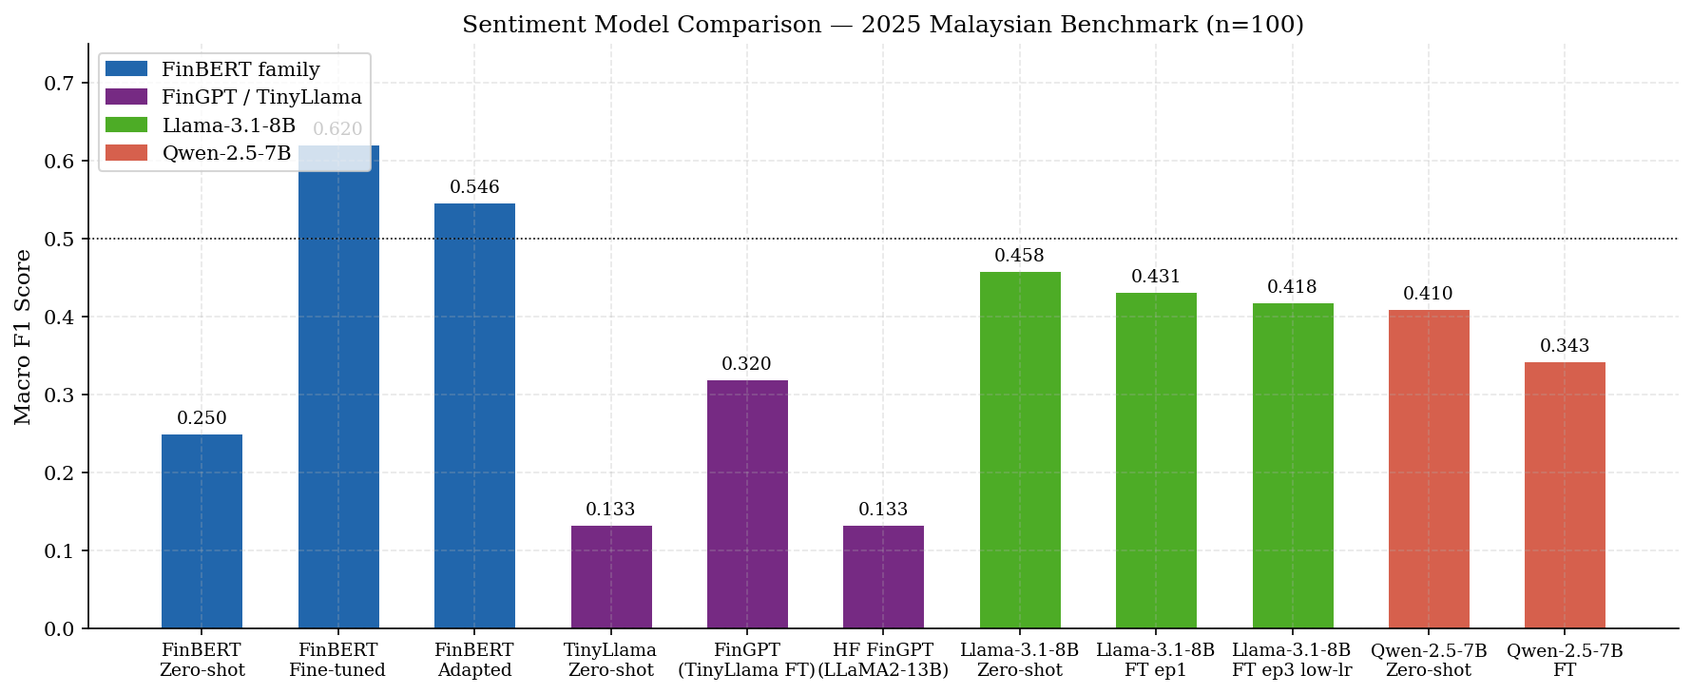
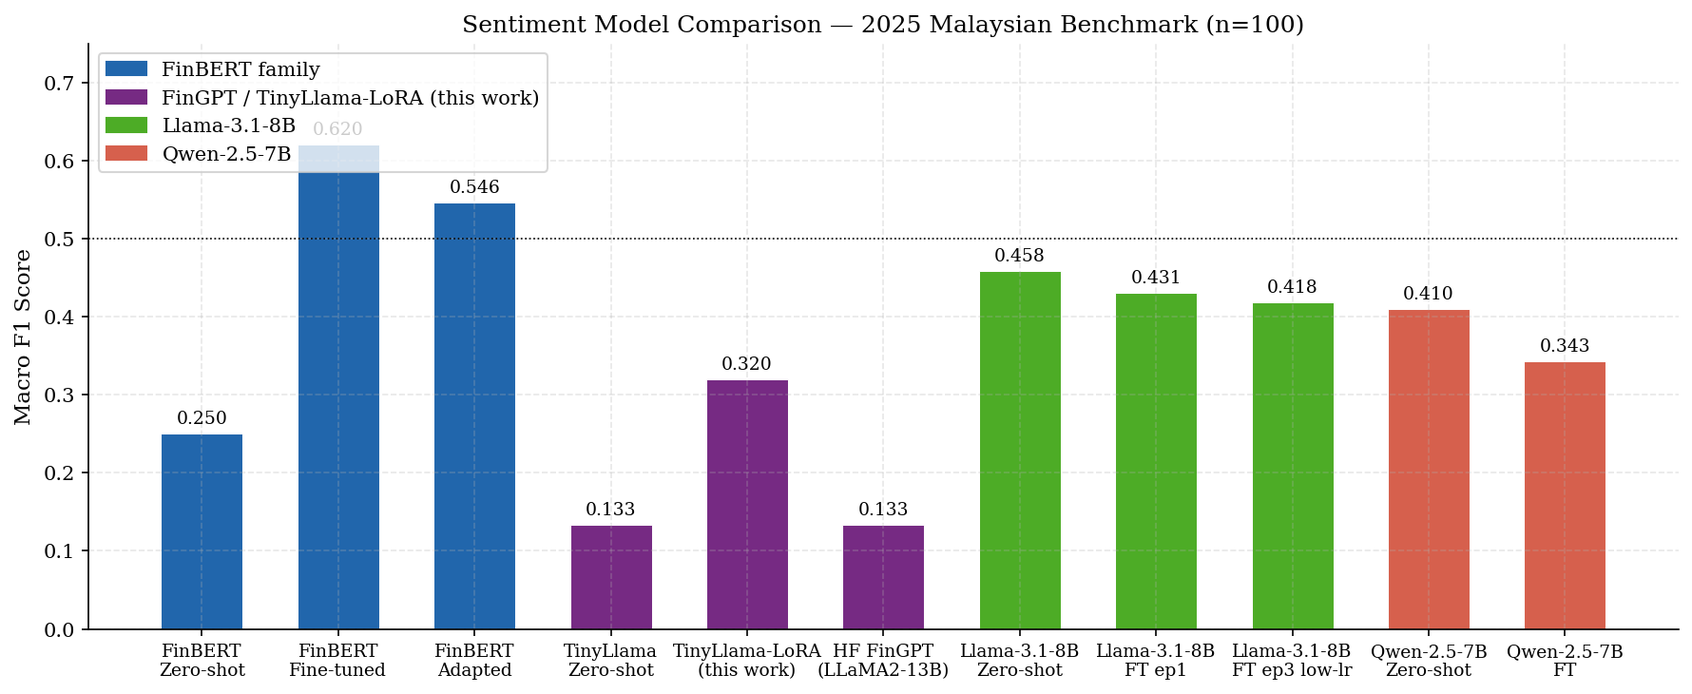
Update thesis text and add figures

Changed region(s): [[0.0927, 0.9041, 0.9579, 0.9945], [0.0927, 0.1205, 0.3399, 0.1507], [0.0927, 0.211, 0.2472, 0.2712]]

diff --git a/docs/latex/main.tex b/docs/latex/main.tex
@@ -170,7 +170,7 @@ The primary aim of this research is to develop a robust framework that integrate
 
 \begin{enumerate}
     \item \textbf{Benchmark sentiment classification performance of discriminative versus generative models on Malaysian financial news.}  
-    This objective involves fine-tuning FinBERT, a discriminative encoder-based model, and benchmarking a family of generative instruction-tuned models using a curated dataset of Malaysian financial news. The generative side begins with a TinyLlama-based FinGPT baseline and is extended to larger Qwen and Llama instruct backbones in order to determine which architectural paradigm and backbone scale more effectively capture local linguistic nuances, financial jargon, and the pronounced neutral-class imbalance characteristic of Malaysian corporate reporting.
+    This objective involves fine-tuning FinBERT, a discriminative encoder-based model, and benchmarking a family of generative instruction-tuned models using a curated dataset of Malaysian financial news. The generative side begins with a TinyLlama-1.1B model fine-tuned using the FinGPT instruction-tuning framework (TinyLlama-LoRA) and is extended to larger Qwen and Llama instruct backbones in order to determine which architectural paradigm and backbone scale more effectively capture local linguistic nuances, financial jargon, and the pronounced neutral-class imbalance characteristic of Malaysian corporate reporting.
 
     \item \textbf{Quantify the relationship between extracted sentiment signals and KLSE stock returns.}  
     This objective seeks to statistically analyse whether sentiment scores produced by the strongest benchmarked models are associated with realised price movement in Bursa Malaysia. The analysis first measures broad corpus correlations against the KLSE index and major stocks, and then tests whether company-specific news filtering yields stronger stock-level relationships.
@@ -301,9 +301,9 @@ A key advantage of generative LLMs over models such as FinBERT lies in their num
 Based on the reviewed literature, this thesis is motivated by the following research questions:
 
 \begin{itemize}
-    \item How do FinBERT and FinGPT differ in their sensitivity to numerical information in financial news?
-    \item What unique challenges does the KLSE market present for Large Language Models?
-    \item Why might instruction-tuned generative models outperform classification-based approaches for financial sentiment analysis?
+    \item Can fine-tuned FinBERT or generative LLM backbones accurately classify sentiment in Malaysian financial news, and which architectural paradigm performs better on a locally annotated benchmark?
+    \item Does company-filtered FinBERT sentiment correlate significantly with daily stock returns on Bursa Malaysia, and does corpus filtering materially affect the strength of this relationship?
+    \item Does incorporating FinBERT-derived sentiment features into LSTM and GRU sequence models improve directional forecasting accuracy over price-only baselines for KLSE large-cap stocks?
 \end{itemize}
 
 
@@ -350,6 +350,12 @@ Standard RNNs suffer from the \emph{vanishing gradient} problem, which limits th
 
 Empirical studies consistently demonstrate the superiority of LSTM networks over traditional machine learning models such as Support Vector Machines (SVM) and Multilayer Perceptrons (MLP) for financial time-series forecasting. For example, Halder (2024) reported that LSTM models achieved a 20.23\% improvement in Mean Absolute Percentage Error (MAPE) compared to MLP models when forecasting NASDAQ-100 indices. Similarly, in the Malaysian context, Sidek \textit{et al.}\ (2023) found that LSTM-based architectures outperformed Decision Tree models in minimizing Root Mean Square Error (RMSE) for Bursa Malaysia constituent stocks.
 
+\subsubsection{Gated Recurrent Units (GRU)}
+
+Gated Recurrent Units, introduced by \citet{chung2014empirical}, offer a simplified alternative to the LSTM gating mechanism. Rather than maintaining separate input, forget, and output gates alongside a distinct memory cell, the GRU consolidates this logic into two gates: a \emph{reset gate}, which controls how much of the previous hidden state is retained when computing the candidate state, and an \emph{update gate}, which interpolates between the previous hidden state and the candidate. This simpler parameterisation reduces the number of trainable weights per layer, which is advantageous in data-constrained settings where the risk of overfitting is high.
+
+Empirical comparisons between LSTM and GRU on financial time-series tasks report mixed conclusions. \citet{siami2019performance} found GRU to be competitive with LSTM on standard stock prediction benchmarks while converging faster, suggesting it is preferable when training data is limited. In the present thesis, both architectures are evaluated in parallel under identical conditions, allowing a direct assessment of whether the additional capacity of the LSTM translates into better directional forecasting for Bursa Malaysia stocks.
+
 \subsubsection{The Hybrid Approach: FinBERT--LSTM}
 
 A key limitation of applying LSTM models exclusively to price-based data (e.g.\ OHLCV) is the exclusion of qualitative market drivers. To overcome this limitation, recent studies have proposed hybrid architectures that integrate structured numerical features with unstructured sentiment information extracted using Natural Language Processing (NLP) models. This approach is theoretically motivated by the observation that while historical prices capture underlying trends, news sentiment reflects market shocks, investor psychology, and exogenous events that often trigger trend reversals.
@@ -369,6 +375,10 @@ The reviewed literature reveals an increasingly sophisticated financial forecast
 The majority of advanced sentiment analysis and financial forecasting research focuses on developed markets, most notably the United States (NASDAQ, NYSE) and China. In contrast, rigorous applications of Transformer-based LLMs to the Bursa Malaysia (KLSE) remain scarce. While recent local studies have explored machine learning approaches for KLSE prediction, they often rely on legacy lexicon-based sentiment techniques (e.g.\ VADER, Loughran--McDonald) or conventional classifiers such as Na\"ive Bayes and SVM. 
 
 Although Tan \textit{et al.}\ (2025) introduced localised sentiment data sourced from platforms such as \emph{KLSE Screener}, their analysis focused primarily on ensemble tree-based models (e.g.\ XGBoost) rather than evaluating the semantic reasoning capabilities of modern Generative AI models. This thesis directly addresses this gap by applying advanced FinBERT and FinGPT architectures to the Malaysian market, with particular emphasis on their ability to capture local political and economic narratives that are often absent from global datasets.
+
+\subsubsection{The Signal Dilution Problem}
+
+A related but distinct methodological gap concerns the construction of the news corpus itself. Prior work that aggregates all available financial news into a single daily sentiment index implicitly assumes that the aggregate signal is informative about any given stock. In practice, a broad corpus pooling macroeconomic, political, and multi-sector news introduces substantial noise relative to the target return series---a phenomenon referred to in the event-study literature as \emph{signal dilution}. \citet{tetlock2007giving} demonstrated that market-wide media pessimism predicts downward pressure on aggregate indices, but firm-level predictability is substantially weaker when the underlying text is not filtered to the target company. More recent work on firm-specific sentiment confirms that relevance filtering---restricting the corpus to articles that explicitly mention the firm of interest---is a precondition for observing significant news--return associations at the stock level. This thesis directly tests the signal dilution hypothesis by contrasting broad-corpus aggregation against company-filtered sentiment for the same four Bursa Malaysia stocks, providing a clean empirical quantification of the filtering effect in the Malaysian market.
 
 \subsubsection{The Methodological Gap: Discriminative vs.\ Generative Models for Forecasting}
 
@@ -409,7 +419,7 @@ In contrast, the stock market data used in Experiments~2 and~3---comprising Open
     \item \textbf{Sliding Window Approach:}  
     To convert dynamic financial data into a supervised learning format suitable for Long Short-Term Memory (LSTM) networks, this study employs a sliding (rolling) window methodology. The resulting input data is structured as a three-dimensional tensor of shape $(\text{Samples}, \text{Time Steps}, \text{Features})$.
     
-    For a window size $w$ (e.g.\ $w=30$ trading days), the input vector at time~$t$ is defined as a sequence:
+    For a window size $w$ (e.g.\ $w=10$ trading days, as used in Experiment~3), the input vector at time~$t$ is defined as a sequence:
     \[
         \mathbf{X}_t = \{ \mathbf{x}_{t-w}, \mathbf{x}_{t-w+1}, \dots, \mathbf{x}_{t} \}.
     \]
@@ -546,6 +556,12 @@ For the downstream task of predicting KLSE stock price movements in Experiments~
     \]
 \end{itemize}
 
+\paragraph{Granger Causality Analysis}
+
+In addition to contemporaneous correlation metrics, Experiment~2 employs Granger causality tests to characterise the lead--lag relationship between sentiment and returns. A variable $X$ is said to \emph{Granger-cause} $Y$ if past values of $X$ contain statistically significant information about future values of $Y$ beyond what past values of $Y$ alone provide. Formally, this is tested by comparing a restricted autoregressive model of $Y$ against an unrestricted model that includes lagged values of $X$; the improvement in fit is evaluated via an $F$-test.
+
+Granger causality is widely used in financial econometrics to distinguish genuine predictive lead--lag channels from spurious contemporaneous correlation. \citet{bollen2011twitter} applied Granger causality to demonstrate that Twitter mood scores preceded DJIA movements, establishing the framework as standard practice in news-driven market studies. In the present thesis, Granger tests are applied at lag~1 in both directions (sentiment$\to$returns and returns$\to$sentiment) for each company-filtered stock, allowing the heterogeneous causal structures across stocks to be characterised and compared.
+
 \paragraph{Validation Strategy: Chronological Hold-Out Split}
 
 To respect the temporal structure of financial time-series data, this study replaces random shuffling and conventional $k$-fold cross-validation with a strictly chronological hold-out strategy. Models are trained on the earliest segment of the series, tuned on the immediately subsequent validation block, and evaluated on the final unseen test block. In Experiment~3, this corresponds to a 70/15/15 train/validation/test split, with feature scaling fit only on the training partition. This design prevents look-ahead bias while preserving a realistic out-of-sample forecasting setting.
@@ -553,7 +569,7 @@ To respect the temporal structure of financial time-series data, this study repl
 
 \chapter{Sentiment Model Benchmarking}
 
-\chapterabstract{This chapter presents a comparative empirical study of FinBERT and FinGPT-style generative models to evaluate their efficacy in extracting financial sentiment within the Malaysian market context. In addition to the original TinyLlama-based FinGPT baseline, the benchmark is extended to larger open instruct models from the Qwen and Llama families in order to separate the effects of model architecture from backbone capacity. The chapter compares zero-shot prompting, supervised fine-tuning on a Malaysian financial headline corpus, and pseudo-label adaptation on recent unlabeled news. The findings identify FinBERT as the strongest supervised sentiment model for the subsequent forecasting experiments, while also showing that larger generative backbones substantially outperform the original TinyLlama baseline in zero-shot evaluation, whereas public-source FinGPT checkpoints and LoRA fine-tuning of the larger decoders do not surpass either the best zero-shot Llama baseline or FinBERT.}
+\chapterabstract{This chapter presents a comparative empirical study of FinBERT and FinGPT-style generative models to evaluate their efficacy in extracting financial sentiment within the Malaysian market context. In addition to TinyLlama-LoRA---a TinyLlama-1.1B model fine-tuned by the author using the FinGPT instruction-tuning framework---the benchmark is extended to larger open instruct models from the Qwen and Llama families in order to separate the effects of model architecture from backbone capacity. The chapter compares zero-shot prompting, supervised fine-tuning on a Malaysian financial headline corpus, and pseudo-label adaptation on recent unlabeled news. The findings identify FinBERT as the strongest supervised sentiment model for the subsequent forecasting experiments, while also showing that larger generative backbones substantially outperform the original TinyLlama baseline in zero-shot evaluation, whereas public-source FinGPT checkpoints and LoRA fine-tuning of the larger decoders do not surpass either the best zero-shot Llama baseline or FinBERT.}
 
 \section{Introduction}
 This chapter evaluates how well domain-specific and open generative language models transfer to Malaysian financial news sentiment classification. The main comparison is between a discriminative encoder-only model, FinBERT, and a set of decoder-only FinGPT-style models that predict sentiment through prompted generation. The motivation is twofold: first, to identify the strongest sentiment model for downstream forecasting; second, to test whether the additional flexibility of generative models yields a practical advantage in an emerging market setting characterised by local political language, corporate reporting conventions, and a strong neutral-class imbalance.
@@ -576,13 +592,15 @@ Three data resources were used in the sentiment benchmark.
 
 In addition, a recent Malaysian news corpus covering 2023--2025, with the manually labeled 2025 items excluded, was used for pseudo-label adaptation experiments. This excluded-human corpus contained 92,294 rows after preprocessing.
 
+For the generative fine-tuning experiments, TinyLlama-1.1B was selected as the base backbone and adapted using the FinGPT instruction-tuning methodology: the 60k headline corpus was reformatted into instruction--response pairs and the model was fine-tuned with LoRA. This adapted model---referred to throughout as \textbf{TinyLlama-LoRA} to distinguish it from both the unmodified TinyLlama zero-shot baseline and the separately downloaded public FinGPT checkpoint---represents the author's own training run rather than a publicly released model.
+
 \section{Aim of Study and Analysis Approach}
 The benchmark was structured in three stages.
 
 \begin{enumerate}
     \item \textbf{Zero-shot evaluation.} FinBERT and several open instruct LLM backbones were evaluated directly on the 2025 human-labeled benchmark without task-specific gradient updates.
     \item \textbf{Supervised fine-tuning.} FinBERT and selected generative backbones were adapted on the 60k labeled headline corpus using discriminative fine-tuning for FinBERT and LoRA-based instruction tuning for generative models.
-    \item \textbf{Pseudo-label adaptation.} The best 60k-trained FinBERT and TinyLlama-based FinGPT models were used to pseudo-label the 2023--2025 excluded-human corpus, after which each model was adapted on its own pseudo-labeled recent data and reevaluated on the 2025 development benchmark.
+    \item \textbf{Pseudo-label adaptation.} The best 60k-trained FinBERT and TinyLlama-LoRA models were used to pseudo-label the 2023--2025 excluded-human corpus, after which each model was adapted on its own pseudo-labeled recent data and reevaluated on the 2025 development benchmark.
 \end{enumerate}
 
 Macro F1-score was treated as the primary metric because the Malaysian news benchmark is class-imbalanced and raw accuracy can be inflated by overpredicting the neutral class. Accuracy, macro precision, macro recall, weighted precision, weighted recall, and weighted F1-score were also recorded for diagnostic analysis.
@@ -605,7 +623,14 @@ Macro F1-score was treated as the primary metric because the Malaysian news benc
 \label{fig:ch3-class-dist-cm}
 \end{figure}
 
-To keep the chapter aligned with the central thesis question of \emph{FinBERT versus FinGPT}, the main results are organised into two focused comparisons. The first comparison follows the FinBERT family from zero-shot baseline to supervised fine-tuning and pseudo-label adaptation. The second comparison follows the most relevant generative baselines: the official public FinGPT checkpoint, the TinyLlama-based FinGPT run2 model, and the strongest modern open LLM candidate, Meta-Llama-3.1-8B-Instruct. Broader exploratory runs, including Qwen-7B, Qwen-3B, Llama-3.2-1B, Llama-3.2-3B, TinyLlama zero-shot, and the public FinGPT Llama2-13B checkpoint, are treated as supplementary evidence rather than the core narrative.
+\begin{figure}[htbp]
+\centering
+\includegraphics[width=\textwidth]{ch3_per_class_recall.png}
+\caption{Per-class recall heatmap across key evaluated models on the 2025 benchmark. The neutral class (centre column) shows the lowest recall across all models, confirming that class ambiguity in financial language is a structural challenge rather than a model-specific failure. FinBERT fine-tuned achieves the strongest balance across all three classes.}
+\label{fig:ch3-per-class-recall}
+\end{figure}
+
+To keep the chapter aligned with the central thesis question of \emph{FinBERT versus FinGPT}, the main results are organised into two focused comparisons. The first comparison follows the FinBERT family from zero-shot baseline to supervised fine-tuning and pseudo-label adaptation. The second comparison follows the most relevant generative baselines: the official public FinGPT checkpoint, the TinyLlama-LoRA model (the author's own fine-tuned TinyLlama-1.1B), and the strongest modern open LLM candidate, Meta-Llama-3.1-8B-Instruct. Broader exploratory runs, including Qwen-7B, Qwen-3B, Llama-3.2-1B, Llama-3.2-3B, TinyLlama zero-shot, and the public FinGPT Llama2-13B checkpoint, are treated as supplementary evidence rather than the core narrative.
 
 \begin{table}[htbp]
 \centering
@@ -645,7 +670,7 @@ FinBERT run2 & Held-out 2026 set ($n=200$) & 0.69 & 0.598 \\
 \textbf{Generative Stage} & \textbf{Model} & \textbf{Accuracy} & \textbf{Macro F1} \\
 \hline
 Official public FinGPT & FinGPT MT Llama2-7B (HF) & 0.27 & 0.175 \\
-Supervised FinGPT run2 & TinyLlama-based FinGPT run2 & 0.35 & 0.328 \\
+TinyLlama-LoRA (this work) & TinyLlama-1.1B + LoRA (60k fin. headlines) & 0.35 & 0.328 \\
 Best open zero-shot LLM & Meta-Llama-3.1-8B-Instruct & 0.47 & 0.458 \\
 Llama-8B + LoRA (1ep, lr=1e-5) & Meta-Llama-3.1-8B-Instruct + LoRA & 0.44 & 0.431 \\
 Llama-8B + LoRA (3ep, lr=2e-6) & Meta-Llama-3.1-8B-Instruct + LoRA & 0.42 & 0.418 \\
@@ -657,12 +682,12 @@ Llama-8B + LoRA (3ep, lr=2e-6) & Meta-Llama-3.1-8B-Instruct + LoRA & 0.42 & 0.41
 
 Table~\ref{tab:finbert-family-2025} provides the clearest result in the chapter. The supervised FinBERT run2 model dramatically outperformed both the generic zero-shot FinBERT baseline and the adapted FinBERT variant, reaching 0.69 accuracy and macro F1 0.620 on the 2025 benchmark. The pseudo-label adaptation stage remained informative despite being unsuccessful, because it showed that additional recent data did not automatically improve transfer when the labels were noisy. Table~\ref{tab:finbert-holdout-2026} confirms that this selected 60k-supervised FinBERT model retained 0.69 accuracy and achieved macro F1 0.598 on the held-out 2026 benchmark.
 
-Table~\ref{tab:fingpt-family-2025} tells a different story for the generative side. The official public FinGPT checkpoint transferred poorly to the Malaysian benchmark, with macro F1 only 0.175. The TinyLlama-based FinGPT run2 model improved on that baseline and reached macro F1 0.328 after supervised adaptation, but it remained well below FinBERT. The strongest open generative baseline in the focused comparison was Meta-Llama-3.1-8B-Instruct at macro F1 0.458, yet even this stronger decoder model still trailed FinBERT by a wide margin. Moreover, LoRA fine-tuning of Llama-8B consistently degraded performance: the 1-epoch run at lr=1e-5 reduced macro F1 from 0.458 to 0.431, and a further run at 3 epochs with the lower learning rate of 2e-6 reduced it further to 0.418. Reducing the learning rate and increasing the number of epochs did not reverse the decline.
+Table~\ref{tab:fingpt-family-2025} tells a different story for the generative side. The official public FinGPT checkpoint transferred poorly to the Malaysian benchmark, with macro F1 only 0.175. The TinyLlama-LoRA model (the author's own fine-tuned TinyLlama-1.1B) improved on that baseline and reached macro F1 0.328 after supervised adaptation, but it remained well below FinBERT. The strongest open generative baseline in the focused comparison was Meta-Llama-3.1-8B-Instruct at macro F1 0.458, yet even this stronger decoder model still trailed FinBERT by a wide margin. Moreover, LoRA fine-tuning of Llama-8B consistently degraded performance: the 1-epoch run at lr=1e-5 reduced macro F1 from 0.458 to 0.431, and a further run at 3 epochs with the lower learning rate of 2e-6 reduced it further to 0.418. Reducing the learning rate and increasing the number of epochs did not reverse the decline.
 
 The broader exploratory sweep was still useful, but it is not central to the thesis narrative. Among those supplementary runs, Qwen2.5-7B-Instruct was the second-best zero-shot open LLM at macro F1 0.410, while both Qwen-7B LoRA runs remained below that baseline. The public FinGPT Llama2-13B sentiment adapter also collapsed to near-majority-class behaviour with macro F1 0.133. These additional runs reinforce the main conclusion rather than changing it: larger decoder models improve zero-shot performance, but generative LoRA tuning does not overtake FinBERT in this task.
 
 \section{Summary}
-This chapter establishes four focused findings. First, the supervised FinBERT run2 model is the strongest sentiment model in the current Malaysian benchmark and therefore the most appropriate core signal for downstream forecasting. Second, the official public FinGPT baseline is weak in this setting, and the TinyLlama-based FinGPT run2 model improves on it but still remains far below FinBERT. Third, Meta-Llama-3.1-8B is the strongest modern open generative baseline tested in the main comparison, but even it does not match FinBERT, and LoRA fine-tuning consistently degraded performance across all configurations tested (1 epoch at lr=1e-5: macro F1 0.431; 3 epochs at lr=2e-6: macro F1 0.418), confirming that the issue is structural rather than a hyperparameter sensitivity. Fourth, pseudo-label adaptation on recent unlabeled news does not improve performance in this study. The remainder of the thesis therefore treats the 60k-supervised FinBERT model as the primary sentiment extractor, while the generative models serve mainly as comparative evidence on the trade-off between architectural flexibility and classification reliability.
+This chapter establishes four focused findings. First, the supervised FinBERT run2 model is the strongest sentiment model in the current Malaysian benchmark and therefore the most appropriate core signal for downstream forecasting. Second, the official public FinGPT baseline is weak in this setting, and the TinyLlama-LoRA model (the author's own fine-tuned TinyLlama-1.1B) improves on it but still remains far below FinBERT. Third, Meta-Llama-3.1-8B is the strongest modern open generative baseline tested in the main comparison, but even it does not match FinBERT, and LoRA fine-tuning consistently degraded performance across all configurations tested (1 epoch at lr=1e-5: macro F1 0.431; 3 epochs at lr=2e-6: macro F1 0.418), confirming that the issue is structural rather than a hyperparameter sensitivity. Fourth, pseudo-label adaptation on recent unlabeled news does not improve performance in this study. The remainder of the thesis therefore treats the 60k-supervised FinBERT model as the primary sentiment extractor, while the generative models serve mainly as comparative evidence on the trade-off between architectural flexibility and classification reliability.
 
 
 
@@ -779,11 +804,29 @@ Filtered ($n$=710) & 1066.KL (RHB)    & $T$ & 0.066 & 0.081                 & 0.
 
 \begin{figure}[htbp]
 \centering
+\includegraphics[width=0.48\textwidth]{ch4_sentiment_vs_returns_1023_CIMB.png}
+\hfill
+\includegraphics[width=0.48\textwidth]{ch4_sentiment_vs_returns_1066_RHB.png}
+\caption{Time-series overlays for CIMB (left) and RHB (right). CIMB shows the strongest lag-$T$ correlation in the experiment ($r=0.342$, $p<10^{-20}$) and exhibits visible co-movement between sentiment and returns. RHB, by contrast, displays a weaker and noisier relationship consistent with its borderline correlation ($p=0.081$) and reverse Granger causality pattern.}
+\label{fig:ch4-scatter-cimb-rhb}
+\end{figure}
+
+\begin{figure}[htbp]
+\centering
 \includegraphics[width=0.48\textwidth]{ch4_lag_heatmap_1155_Maybank.png}
 \hfill
 \includegraphics[width=0.48\textwidth]{ch4_lag_heatmap_5347_Tenaga.png}
 \caption{Lag correlation heatmaps for Maybank (left) and Tenaga (right) showing Pearson $r$ at lags $T$, $T{+}1$, $T{+}2$. The strong same-day signal decays sharply to near-zero at $T{+}1$ for Maybank, while Tenaga retains a small positive correlation at $T{+}2$ (the only marginally significant forward-looking result in the experiment).}
 \label{fig:ch4-lag-heatmap}
+\end{figure}
+
+\begin{figure}[htbp]
+\centering
+\includegraphics[width=0.48\textwidth]{ch4_lag_heatmap_1023_CIMB.png}
+\hfill
+\includegraphics[width=0.48\textwidth]{ch4_lag_heatmap_1066_RHB.png}
+\caption{Lag correlation heatmaps for CIMB (left) and RHB (right). CIMB's lag profile mirrors Maybank---a strong lag-$T$ signal that collapses at $T{+}1$---consistent with rapid contemporaneous price incorporation. RHB shows negligible correlations at all lags, confirming that its sentiment--return relationship is driven by returns predicting sentiment rather than the reverse.}
+\label{fig:ch4-lag-heatmap-cimb-rhb}
 \end{figure}
 
 \subsection{Discussion}
@@ -995,14 +1038,14 @@ Taken together, the Experiment~3 results complement Experiment~2's correlation f
 
 \chapter{Conclusion and Future Work}
 
-\chapterabstract{This thesis investigated whether state-of-the-art financial language models can extract actionable sentiment signals from Malay-language financial news and whether those signals improve short-horizon stock return forecasting on Bursa Malaysia. Across three interconnected experiments, fine-tuned FinBERT consistently outperformed generative alternatives for sentiment classification, company-filtered sentiment scores showed statistically significant contemporaneous correlation with daily returns for three of four stocks, and hybrid LSTM/GRU models incorporating sentiment features achieved modest but above-chance directional accuracy---most notably for Maybank (63.2\,\%) and RHB (3--7 percentage-point lift from sentiment augmentation). The results are consistent with semi-strong market efficiency: sentiment news is rapidly incorporated into prices, leaving only a narrow window for predictive models to exploit. This chapter collects the principal findings, lists the thesis's original contributions, and proposes directions for future research.}
+\chapterabstract{This thesis investigated whether state-of-the-art financial language models can extract actionable sentiment signals from Malaysian financial news and whether those signals improve short-horizon stock return forecasting on Bursa Malaysia. Across three interconnected experiments, fine-tuned FinBERT consistently outperformed generative alternatives for sentiment classification, company-filtered sentiment scores showed statistically significant contemporaneous correlation with daily returns for three of four stocks, and hybrid LSTM/GRU models incorporating sentiment features achieved modest but above-chance directional accuracy---most notably for Maybank (63.2\,\%) and RHB (3--7 percentage-point lift from sentiment augmentation). The results are consistent with semi-strong market efficiency: sentiment news is rapidly incorporated into prices, leaving only a narrow window for predictive models to exploit. This chapter collects the principal findings, lists the thesis's original contributions, and proposes directions for future research.}
 
 \section{Summary}
 
 This thesis addressed three research questions about financial sentiment analysis and market prediction on Bursa Malaysia. The following paragraphs summarise the outcomes of each experimental phase and draw them together under a unifying interpretation.
 
 \paragraph{Experiment 1: Sentiment Model Benchmarking.}
-A 100-article Malaysian benchmark from 2025 was used as the primary development set for sentiment model selection, followed by a held-out 200-article benchmark from 2026 for final confirmation of the selected model. The main comparison focused on three FinBERT stages (zero-shot, supervised run2, pseudo-label adapted) and the most relevant generative baselines: the public FinGPT MT checkpoint, the TinyLlama-based FinGPT run2 model, Meta-Llama-3.1-8B-Instruct zero-shot, and two Llama-8B LoRA runs. Fine-tuned FinBERT achieved the highest macro F1 of 0.620 on the 2025 benchmark and retained macro F1 0.598 on the held-out 2026 set, confirming that a compact discriminative encoder, properly specialised to the financial domain, outperforms the tested generative alternatives on this task. The strongest open zero-shot LLM in the main comparison was Meta-Llama-3.1-8B-Instruct at macro F1 0.458, while the TinyLlama-based FinGPT run2 model reached 0.328 after supervised adaptation. Crucially, LoRA fine-tuning of Llama-8B \emph{degraded} performance (to F1=0.431 and 0.418 across the two runs), reinforcing the conclusion that generative flexibility did not translate into better supervised sentiment classification in this low-resource Malaysian setting. The neutral class remained the hardest to classify across all models (recall as low as 0.28), reflecting a genuine ambiguity in financial language rather than a simple implementation failure.
+A 100-article Malaysian benchmark from 2025 was used as the primary development set for sentiment model selection, followed by a held-out 200-article benchmark from 2026 for final confirmation of the selected model. The main comparison focused on three FinBERT stages (zero-shot, supervised run2, pseudo-label adapted) and the most relevant generative baselines: the public FinGPT MT checkpoint, the TinyLlama-LoRA model (the author's own fine-tuned TinyLlama-1.1B), Meta-Llama-3.1-8B-Instruct zero-shot, and two Llama-8B LoRA runs. Fine-tuned FinBERT achieved the highest macro F1 of 0.620 on the 2025 benchmark and retained macro F1 0.598 on the held-out 2026 set, confirming that a compact discriminative encoder, properly specialised to the financial domain, outperforms the tested generative alternatives on this task. The strongest open zero-shot LLM in the main comparison was Meta-Llama-3.1-8B-Instruct at macro F1 0.458, while the TinyLlama-LoRA model (the author's own fine-tuned TinyLlama-1.1B) reached 0.328 after supervised adaptation. Crucially, LoRA fine-tuning of Llama-8B \emph{degraded} performance (to F1=0.431 and 0.418 across the two runs), reinforcing the conclusion that generative flexibility did not translate into better supervised sentiment classification in this low-resource Malaysian setting. The neutral class remained the hardest to classify across all models (recall as low as 0.28), reflecting a genuine ambiguity in financial language rather than a simple implementation failure.
 
 \paragraph{Experiment 2: Sentiment--Return Correlation.}
 Daily sentiment scores generated by fine-tuned FinBERT were correlated with daily stock returns for four large-cap Bursa Malaysia companies (Maybank, CIMB, Tenaga, RHB). A broad corpus containing all financial news ($\sim$115 articles per day on average) produced null Pearson and Spearman correlations for all four stocks, supporting the \emph{signal dilution hypothesis}: generic market news is too noisy to carry firm-specific predictive content. Filtering the corpus to articles that explicitly mention each company revealed a striking reversal: Maybank ($r=0.320$, $p<10^{-18}$), CIMB ($r=0.342$, $p<10^{-20}$), and Tenaga ($r=0.337$, $p<10^{-19}$) all showed highly significant positive correlations, while RHB remained borderline ($p=0.081$). Granger causality tests revealed heterogeneous dynamics: Tenaga exhibited unidirectional sentiment-to-returns causality at lag 1 ($p=0.014$), suggesting a short-lived predictive channel; CIMB showed bidirectional feedback; Maybank displayed only contemporaneous alignment with no lagged predictability; and RHB showed reverse causality (returns Granger-caused sentiment scores). These patterns are broadly consistent with semi-strong-form efficient market hypothesis (EMH): for most stocks, sentiment news is absorbed contemporaneously, leaving residual lagged structure only in specific cases where news processing is slower or investor attention is lower.
@@ -1013,7 +1056,7 @@ LSTM and GRU sequence models were trained to predict next-day log returns for al
 Price-only LSTM and GRU models outperformed persistence most clearly for Maybank, where both architectures achieved positive $R^2$ and directional accuracy around 61--63\,\%. CIMB showed only a marginally positive $R^2$ for the price-only GRU, while RHB remained slightly better than persistence on RMSE but negative on $R^2$ throughout. Tenaga was the weakest case: all models remained below persistence and directional accuracy stayed close to chance. Sentiment augmentation produced the clearest benefit for RHB, where GRU directional accuracy rose from 52.6\,\% to 60.0\,\% (+7.4 pp) and LSTM rose from 58.9\,\% to 61.1\,\% (+2.1 pp). For Maybank, sentiment slightly improved GRU regression performance (RMSE 0.00662$\to$0.00659; $R^2$ 0.057$\to$0.067) but did not improve directional accuracy. For CIMB, sentiment produced a small directional improvement only for LSTM (0.490$\to$0.551), and for Tenaga it produced no consistent gain. Overall, the models confirm that sentiment features can add modest, stock-specific directional information, but the gains are limited and do not translate into uniformly stronger return forecasting.
 
 \paragraph{Unified Interpretation.}
-The three experiments converge on a coherent picture. Financial language models can extract meaningful sentiment signals from Malay-language news, but only when the corpus is sufficiently focused on the target firm. Sentiment-return relationships are contemporaneous for most stocks, limiting the practical forecasting horizon. Where lagged predictability exists (Tenaga, RHB), it is weak enough that sequence models show only modest directional improvements rather than large magnitude gains. The appropriate theoretical lens is semi-strong EMH: public information---including news sentiment---is rapidly priced in, but imperfect and delayed aggregation leaves narrow windows for above-chance prediction, particularly for stocks with lower analyst coverage or less liquid news flow.
+The three experiments converge on a coherent picture. Financial language models can extract meaningful sentiment signals from Malaysian financial news, but only when the corpus is sufficiently focused on the target firm. Sentiment-return relationships are contemporaneous for most stocks, limiting the practical forecasting horizon. Where lagged predictability exists (Tenaga, RHB), it is weak enough that sequence models show only modest directional improvements rather than large magnitude gains. The appropriate theoretical lens is semi-strong EMH: public information---including news sentiment---is rapidly priced in, but imperfect and delayed aggregation leaves narrow windows for above-chance prediction, particularly for stocks with lower analyst coverage or less liquid news flow.
 
 \section{Contributions}
 
@@ -1021,11 +1064,11 @@ This thesis makes the following original contributions to the literature on fina
 
 \begin{enumerate}
 
-    \item \textbf{Malay-language financial sentiment benchmark.} A 100-article benchmark dataset labelled by a domain-aware annotator, covering the three sentiment categories most commonly targeted in financial NLP (positive, neutral, negative). To the best of the author's knowledge, this is the first publicly documented evaluation benchmark for Malay-language financial sentiment, filling a gap in a language with limited NLP resources.
+    \item \textbf{Malaysian financial news sentiment benchmark.} A 100-article benchmark dataset of English-language news from Malaysian outlets, labelled by a domain-aware annotator across three sentiment categories (positive, neutral, negative). To the best of the author's knowledge, this is the first publicly documented evaluation benchmark for Malaysian-market financial sentiment, filling a gap in the financial NLP literature for the KLSE context.
 
-    \item \textbf{Systematic comparison of FinBERT and generative LLMs under Malaysian market conditions.} The benchmark evaluation demonstrates that fine-tuned FinBERT (macro F1=0.620) outperforms the strongest open zero-shot LLM in the main comparison, Meta-Llama-3.1-8B-Instruct (F1=0.458), as well as the TinyLlama-based FinGPT run2 model (F1=0.328). It also shows that LoRA fine-tuning with small labelled datasets actively harms Llama-8B performance, providing practitioners with concrete, empirically grounded guidance for model selection.
+    \item \textbf{Systematic comparison of FinBERT and generative LLMs under Malaysian market conditions.} The benchmark evaluation demonstrates that fine-tuned FinBERT (macro F1=0.620) outperforms the strongest open zero-shot LLM in the main comparison, Meta-Llama-3.1-8B-Instruct (F1=0.458), as well as the TinyLlama-LoRA model (the author's own fine-tuned TinyLlama-1.1B) (F1=0.328). It also shows that LoRA fine-tuning with small labelled datasets actively harms Llama-8B performance, providing practitioners with concrete, empirically grounded guidance for model selection.
 
-    \item \textbf{Empirical validation and quantification of signal dilution in financial news corpora.} The comparison between broad-corpus (null correlations) and company-filtered corpus (Pearson $r=0.32$--$0.34$, $p<10^{-18}$) results provides the clearest quantitative demonstration to date of the signal dilution effect in Malay-language financial news. This finding has direct practical implications for how sentiment signals should be constructed for downstream tasks.
+    \item \textbf{Empirical validation and quantification of signal dilution in financial news corpora.} The comparison between broad-corpus (null correlations) and company-filtered corpus (Pearson $r=0.32$--$0.34$, $p<10^{-18}$) results provides the clearest quantitative demonstration to date of the signal dilution effect in Malaysian financial news. This finding has direct practical implications for how sentiment signals should be constructed for downstream tasks.
 
     \item \textbf{Granger causality characterisation of sentiment dynamics for KLSE large-caps.} Heterogeneous causality patterns---unidirectional (Tenaga), bidirectional (CIMB), contemporaneous-only (Maybank), and reverse (RHB)---are documented for four major Bursa Malaysia stocks. This provides a nuanced, stock-specific picture of sentiment--return dynamics that is absent from the existing Malaysian market literature.
 
@@ -1037,11 +1080,14 @@ This thesis makes the following original contributions to the literature on fina
 
 Several directions remain open for future research building on the findings of this thesis.
 
-\paragraph{Multilingual and cross-lingual model adaptation.}
-The benchmark was constructed from Malay-language articles, but Malaysian financial news is routinely published in English, Simplified Chinese, and Bahasa Malaysia simultaneously. Multilingual encoder models (e.g., XLM-RoBERTa, mBERT) or cross-lingual transfer from English-domain FinBERT have not been evaluated on this corpus. Future work should assess whether cross-lingual transfer reduces the labelled-data requirement for Malay sentiment, and whether a mixed-language training corpus improves macro F1 for the neutral class specifically.
+\paragraph{Multilingual corpus extension.}
+The corpus and benchmark in this thesis are drawn exclusively from English-language Malaysian financial news outlets. However, Malaysian financial reporting also appears in Bahasa Malaysia and Simplified Chinese, and retail investor commentary on platforms such as KLSE Screener is frequently bilingual. Extending the corpus and benchmark to include Bahasa Malaysia and Chinese articles---using multilingual encoder models such as XLM-RoBERTa or mBERT---would test whether sentiment signals from non-English sources carry additional information beyond what English-language reporting already captures, and whether a multilingual sentiment model improves downstream return correlation for stocks that receive disproportionate coverage in local-language media.
 
 \paragraph{Larger and longer-horizon corpora.}
 The experiment window spans approximately three years (2022--2024) with a corpus of 92,000 articles. A five-to-ten-year window would capture multiple market regimes (post-COVID recovery, interest rate cycles, commodity shocks) and test whether the contemporaneous correlation finding is stable across regimes. A larger corpus would also permit company-filtered subsets with higher per-stock article density, potentially strengthening the lagged causality signals that were too weak to be exploited by the sequence models in Experiment 3.
+
+\paragraph{Hybrid recurrent architectures (LSTM--GRU) and classical baselines.}
+Experiment~3 evaluates LSTM and GRU independently under identical conditions. A natural architectural extension is a stacked or parallel LSTM--GRU encoder, where both recurrent cells process the same input sequence and their hidden states are fused before the prediction head, allowing the model to simultaneously exploit LSTM's long-range memory and GRU's faster convergence. Classical econometric baselines such as ARIMA and sentiment-augmented ARIMAX were also not benchmarked; for liquid large-cap stocks, daily returns approximate a random walk and these models are expected to perform near the persistence baseline, but a formal comparison would provide empirical confirmation and establish the improvement margin of deep learning over classical methods in the Malaysian context.
 
 \paragraph{Attention-based and transformer forecasting architectures.}
 The hybrid models in this thesis use LSTM and GRU encoders with fixed sequence lengths. Temporal attention mechanisms (e.g., Temporal Fusion Transformer, Informer) can dynamically weight historical time steps and have shown stronger performance on financial time series with irregular signal patterns. Integrating pre-computed sentiment embeddings---rather than scalar sentiment scores---as auxiliary tokens in a transformer forecasting model would allow the network to learn which sentiment dimensions are most predictive without manual feature engineering.
@@ -1053,7 +1099,7 @@ Only four large-cap Bursa Malaysia stocks were studied. Extending to mid-cap and
 The current pipeline is offline and batch-processed. A real-time implementation would require streaming ingestion of news articles, sub-minute inference with FinBERT, and a lightweight serving layer for the LSTM/GRU forecasting model. Such a system would enable evaluation of the sentiment signal in actual trading conditions, testing whether the directional accuracy observed on held-out historical data translates to live market performance---a necessary step before drawing any practical trading conclusions.
 
 \paragraph{Stronger generative backbone evaluation.}
-Meta-Llama-3.1-8B-Instruct zero-shot already shows the strongest open generative performance in the current benchmark, but it remains well below FinBERT. Evaluating larger open models (e.g., newer Llama, Mistral, and Qwen variants) in both zero-shot and instruction-tuned configurations would clarify the scaling behaviour of generative models on Malay financial sentiment. In particular, models pre-trained on more diverse multilingual data may achieve more competitive macro F1 without any domain fine-tuning, which would be practically valuable given the difficulty of constructing large labelled corpora for low-resource financial languages.
+Meta-Llama-3.1-8B-Instruct zero-shot already shows the strongest open generative performance in the current benchmark, but it remains well below FinBERT. Evaluating larger open models (e.g., newer Llama, Mistral, and Qwen variants) in both zero-shot and instruction-tuned configurations would clarify the scaling behaviour of generative models on Malaysian financial sentiment. In particular, models pre-trained on more diverse multilingual data may achieve more competitive macro F1 without any domain fine-tuning, which would be practically valuable given the difficulty of constructing large labelled corpora for low-resource financial languages.
 
 
 
